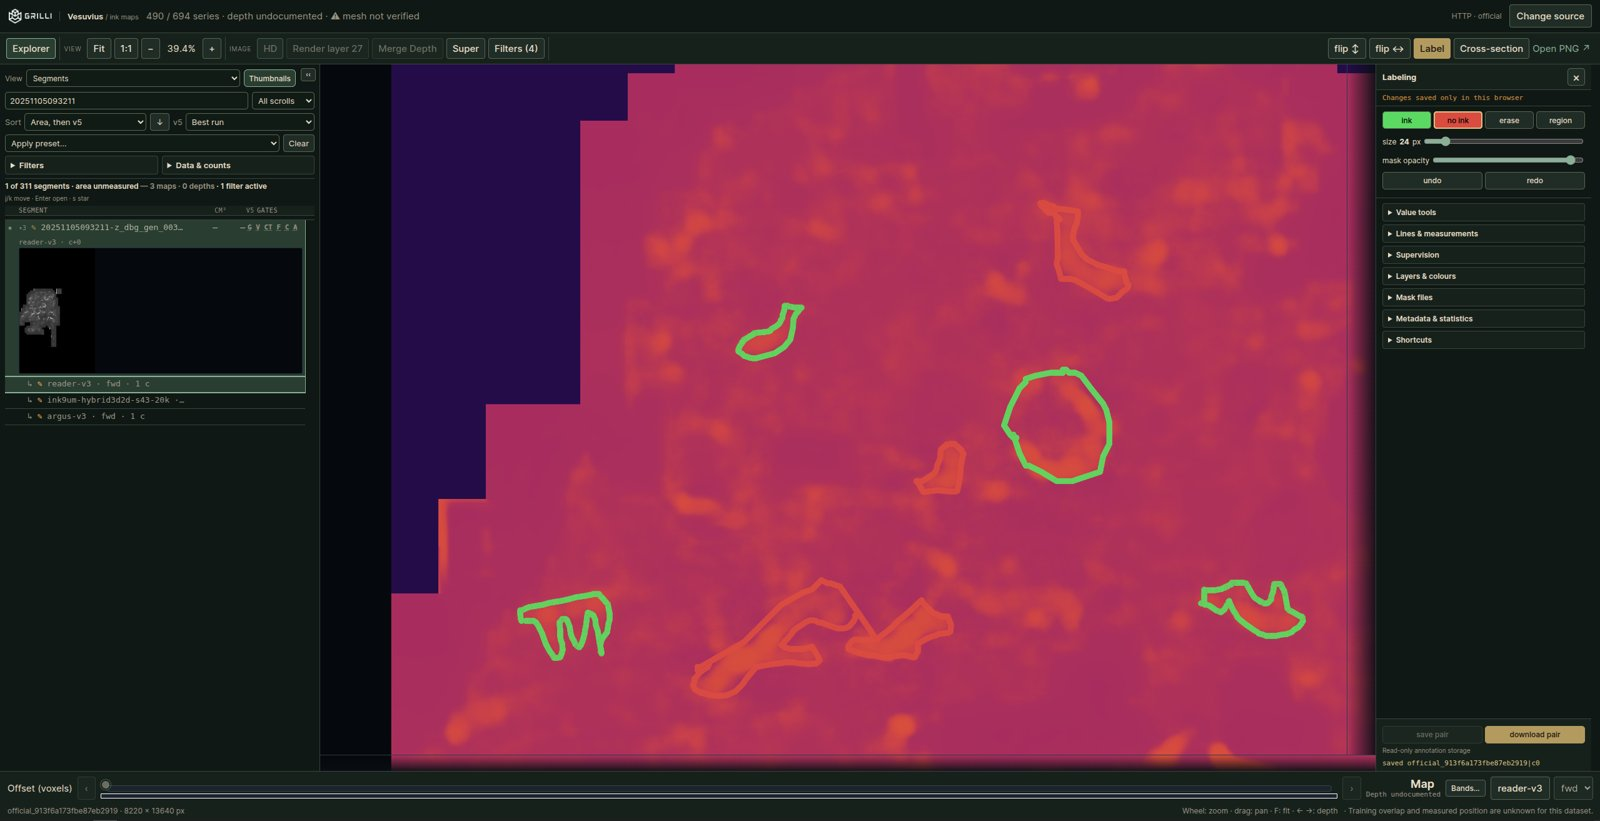
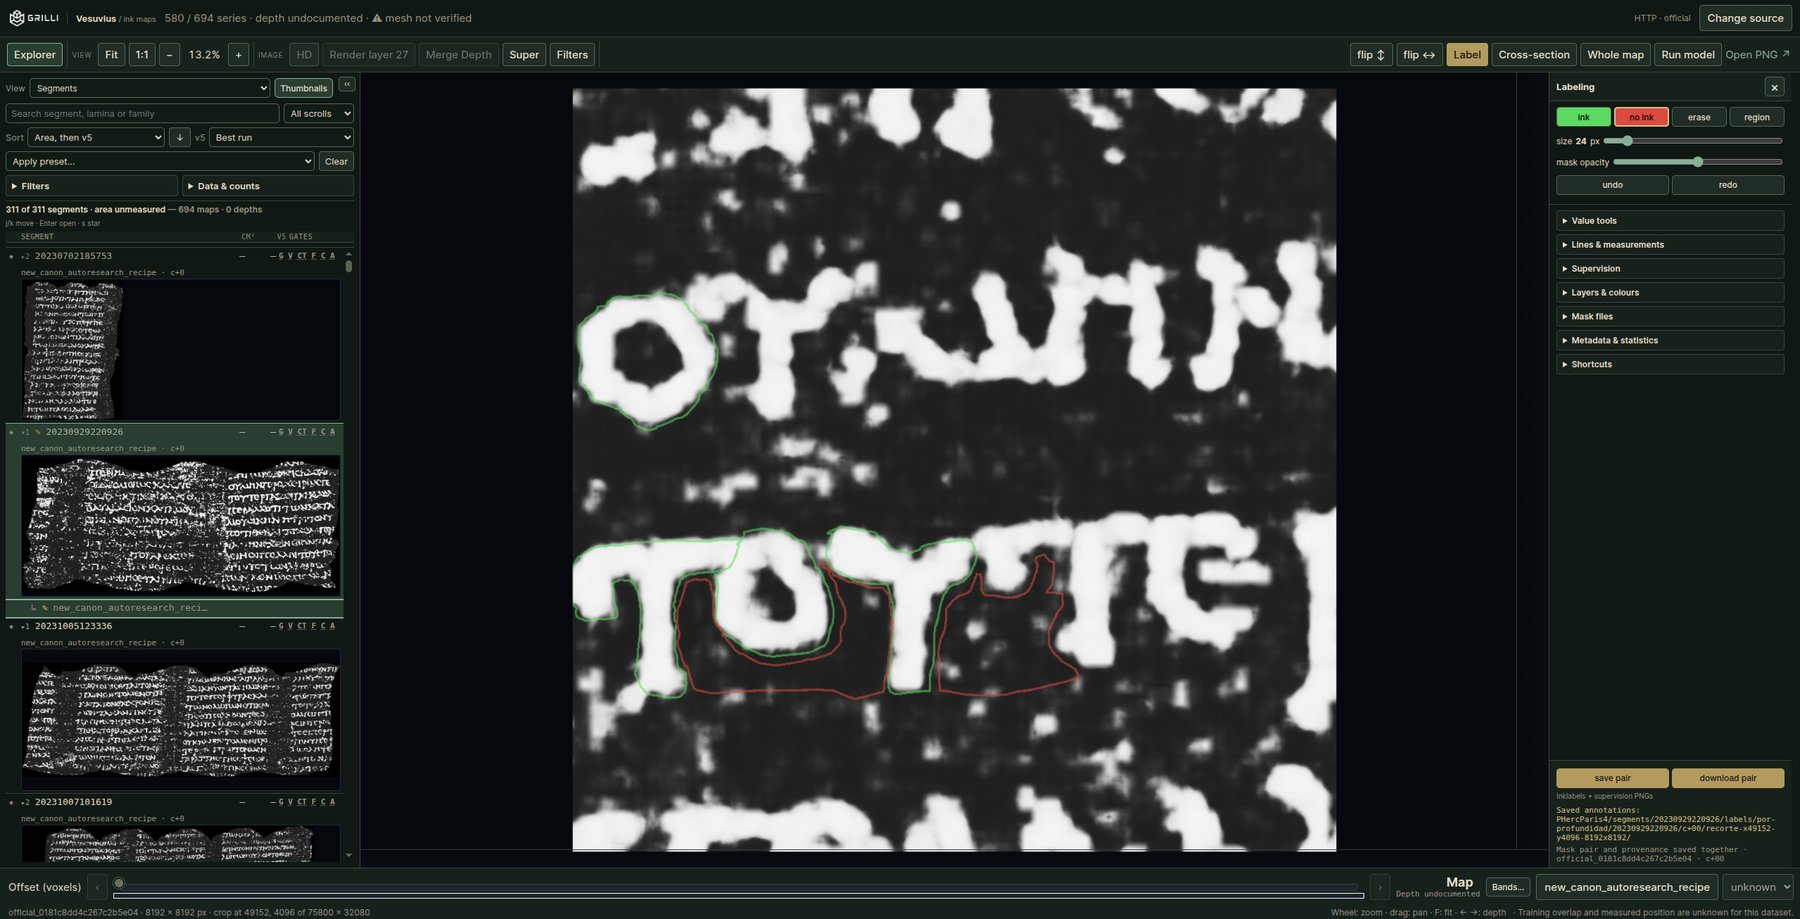
README: new screenshots for labeling by crop and ink-sdk models (#23)
- Top: the reduced view of a 2.4 Gpx PHercParis4 map, with the Label a crop notice.
- Labeling: ink and no-ink on a full-resolution crop of that map.
- New: the Run model dialog listing the public ink-sdk models.

Claude-Session: https://claude.ai/code/session_0144cnUSP6PzmSKZZZhrntff

diff --git a/README.md b/README.md
@@ -28,7 +28,9 @@ The frontend uses JavaScript, HTML and CSS; Python serves data and validates sav
 
 ![Cross-sections: the mesh on its sheet (left) and cutting across the layers (right)](docs/images/cross-sections.jpg)
 
-![Labeling ink (green) and reviewed non-ink (red) on a full-resolution official map](docs/images/annotate.jpg)
+![Labeling ink and no-ink on a full-resolution crop of a 2.4 Gpx PHercParis4 map](docs/images/annotate.jpg)
+
+![Running an ink-sdk model on the open segment from the viewer: the list of public models](docs/images/inksdk.jpg)
 
 <details>
 <summary><b>How it helps when hunting for letters</b></summary>
